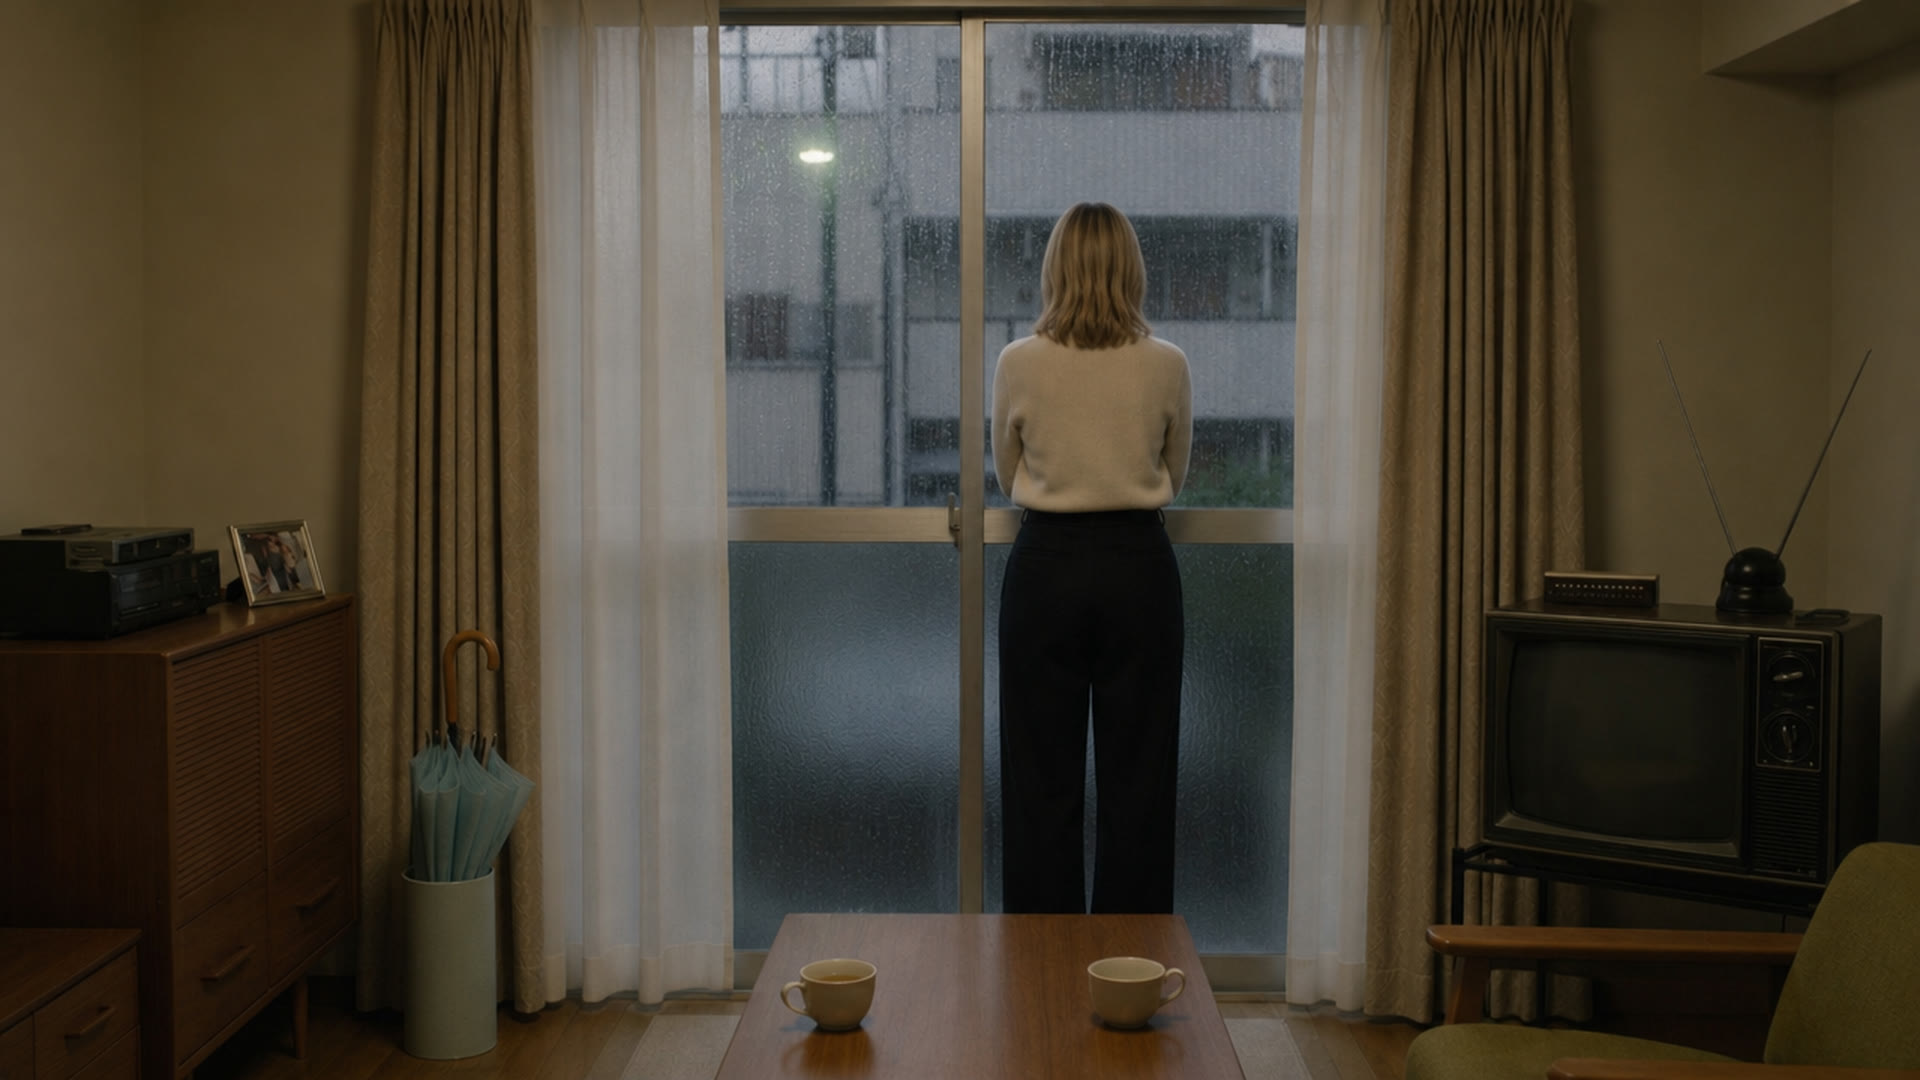
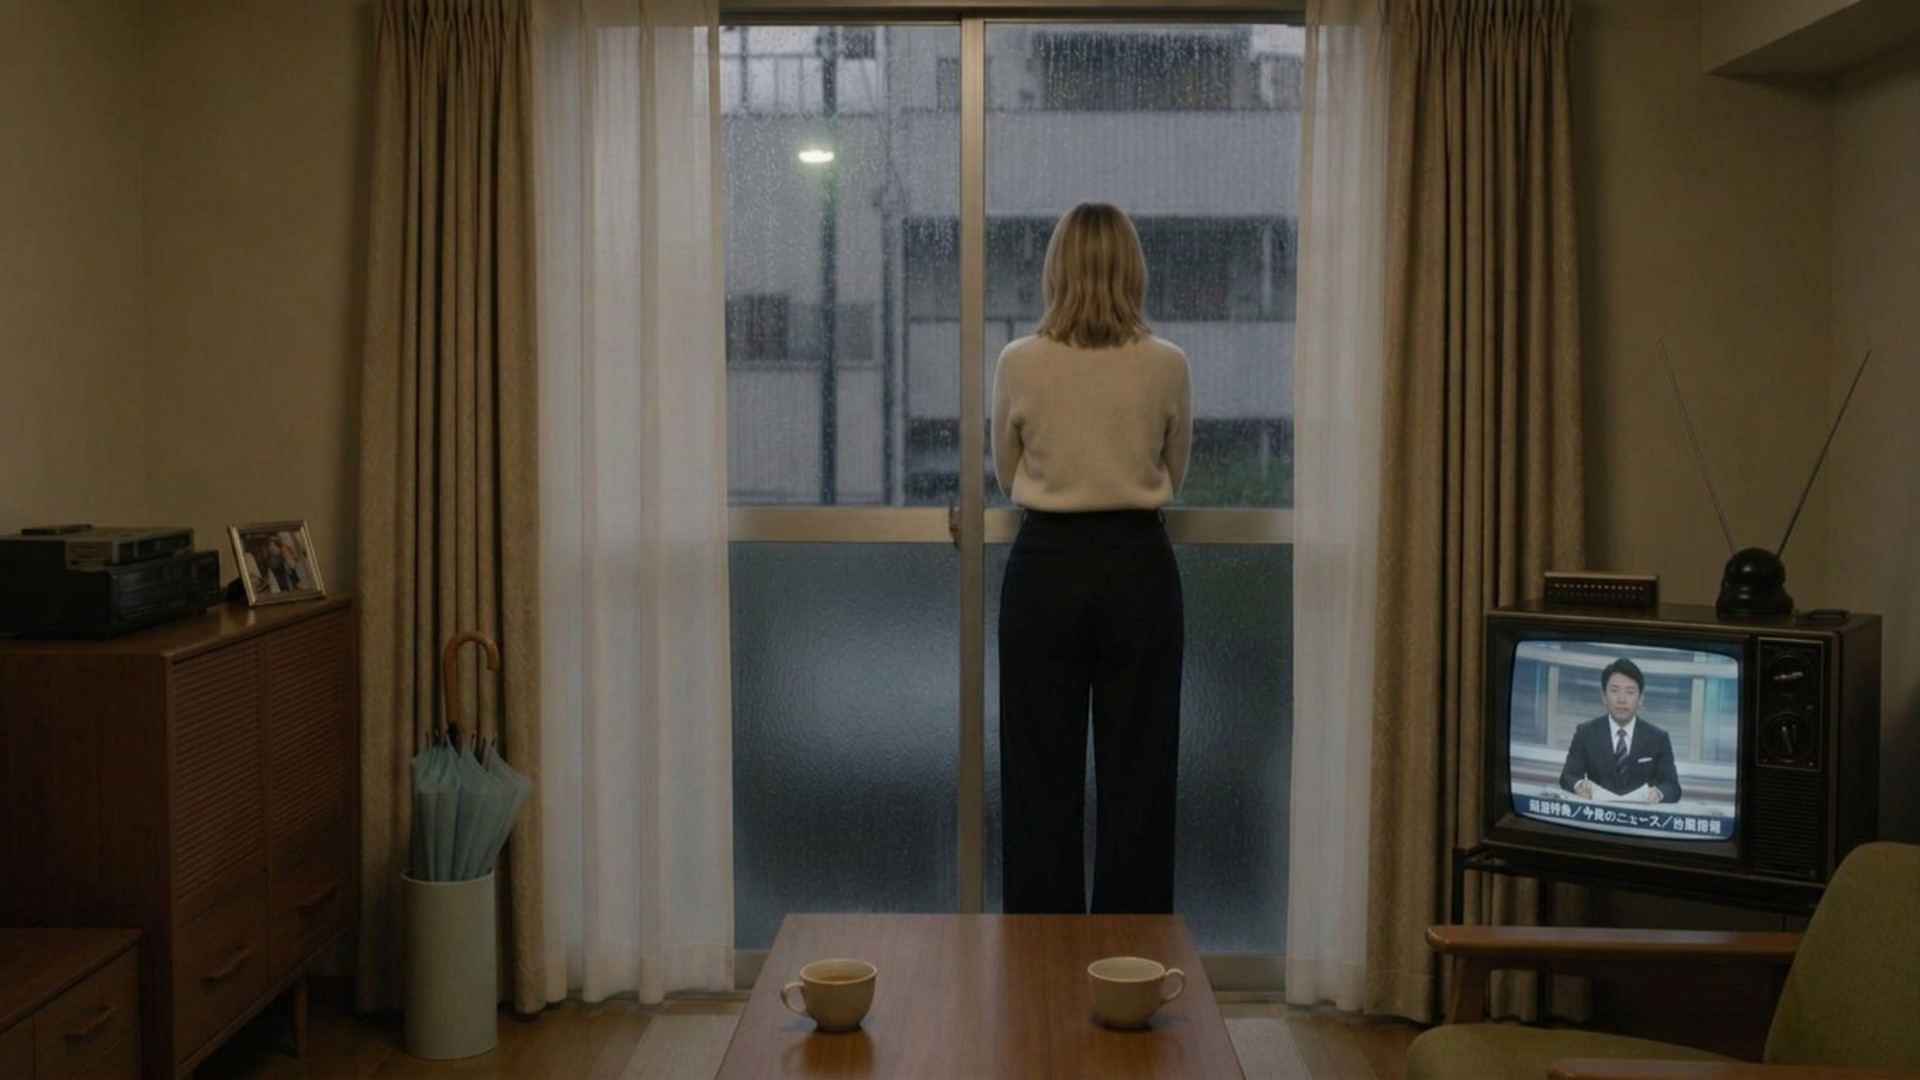
Shot 386: the television shows the male Japanese news reader

Changed region(s): [[0.7812, 0.5806, 0.9062, 0.7944], [0.7812, 0.8556, 0.9062, 0.8861], [0.8125, 0.9778, 0.9062, 1.0]]

diff --git a/FILM.md b/FILM.md
@@ -9,6 +9,22 @@ One scene node per film scene; every shot is a dialogue beat's background, so th
 
 
 
+## The news reader on Vera's television (shot 386, 21 October 2026)
+
+Scene 4, **386 "At the window"** ("The old television murmurs to itself.") is the beat the NEWS REPORTER's line
+plays over, so the set now matches the words: the old boxy CRT in the corner shows **a Japanese male news
+reader in his forties, dark suit and tie, behind a news desk, reading the evening news**, a small
+Japanese-language caption bar along the bottom of the screen. Nothing else in the frame changed — the
+difference against the previous picture is confined to the television (bottom right).
+
+* `public/film/img/s4/386-at-the-window.jpg` is the new frame, 1920×1080.
+* Previous take kept at `public/film/img/archive/s4/386-at-the-window-pre-reporter.jpg`;
+  the retake as generated is `public/film/img/retakes_2026_10_21/386-at-the-window-r1.jpg`.
+* Story data and asset URLs are unchanged (the generated `src/data/nobodysWitnessFilm.ts` already points at
+  this path, so no builder run was needed). 386 carries no depth map and no `pictureLook`.
+* Local replacement in this checkout — sync it into PlayFrame through its importer before the next
+  `node tools/build-film-story.mjs`, which recopies `public/img` from that source.
+
 ## Scenes 1–2 and the opening titles: the director's animatic notes (21 October 2026)
 
 From the animatic export of scenes 1–2 (beat numbers are the export's joined marks). All done; nobody has watched the new export yet:
